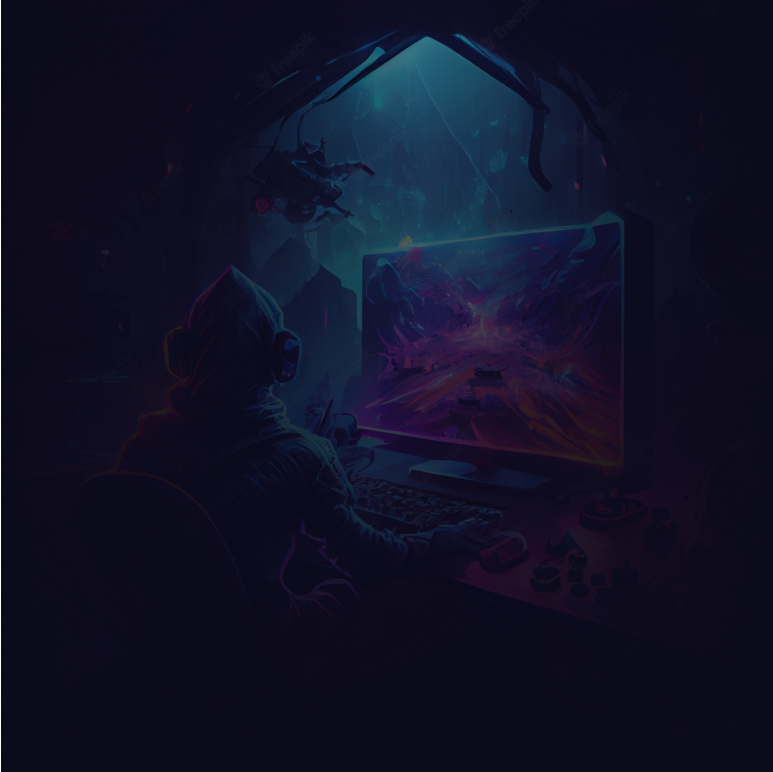
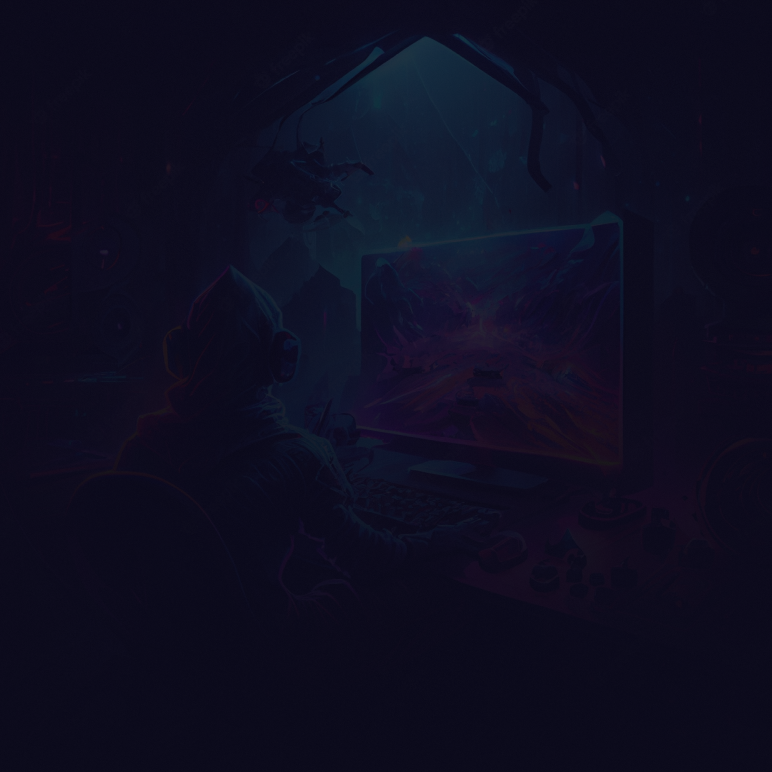
ajustando imagens

Changed region(s): [[0.3731, 0.0311, 0.715, 0.5596], [0.5285, 0.5596, 0.5907, 0.6218]]

diff --git a/components/v2/FormSection/index.tsx b/components/v2/FormSection/index.tsx
@@ -10,7 +10,7 @@ export function FormSection(){
             <Form />
             <figure className="background">
                 <Image src={bg} alt='imagem de fundo' />
-                <Image src={mask} alt='máscara da imagem de fundo' />
+                {/* <Image src={mask} alt='máscara da imagem de fundo' /> */}
             </figure>
         </section>
     )

diff --git a/components/v2/Cover/styles.scss b/components/v2/Cover/styles.scss
@@ -48,6 +48,7 @@
         right: 180px;
         bottom: 0;
         pointer-events: none;
+        opacity: 0.6;
 
         img {
             object-fit: cover;
